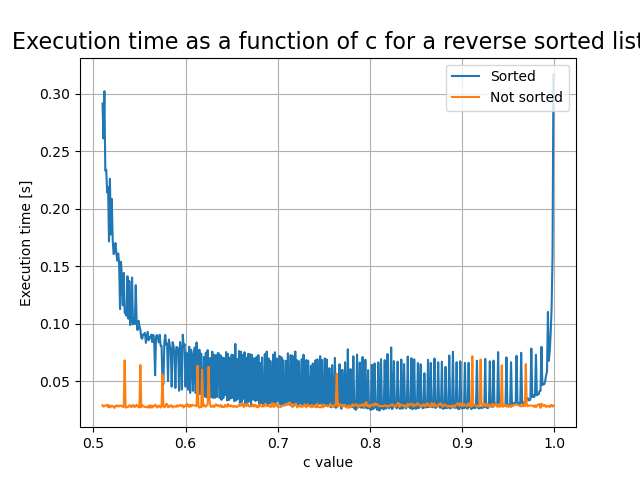
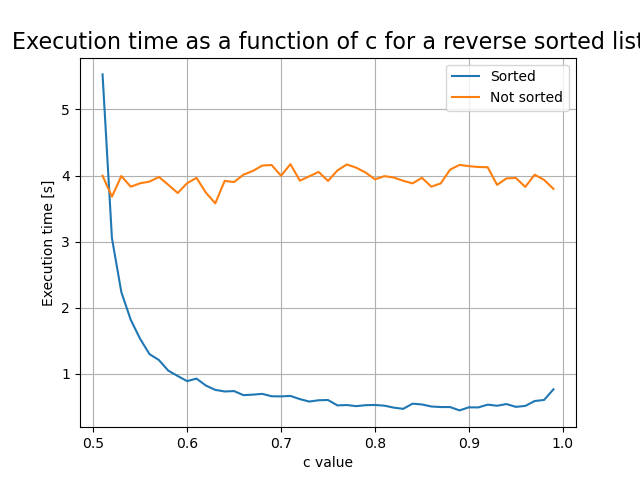
Ryzen bench test 2

diff --git a/lab3/code/tests.py b/lab3/code/tests.py
@@ -258,7 +258,7 @@ class tests:
 
 if __name__ == "__main__":
     test = tests()
-    test.c_interval = 0.001
+    test.c_interval = 0.01
     test.length_range[0] = 10**4
     test.validate_functions()
     assert test.results["validate_functions"][0]
